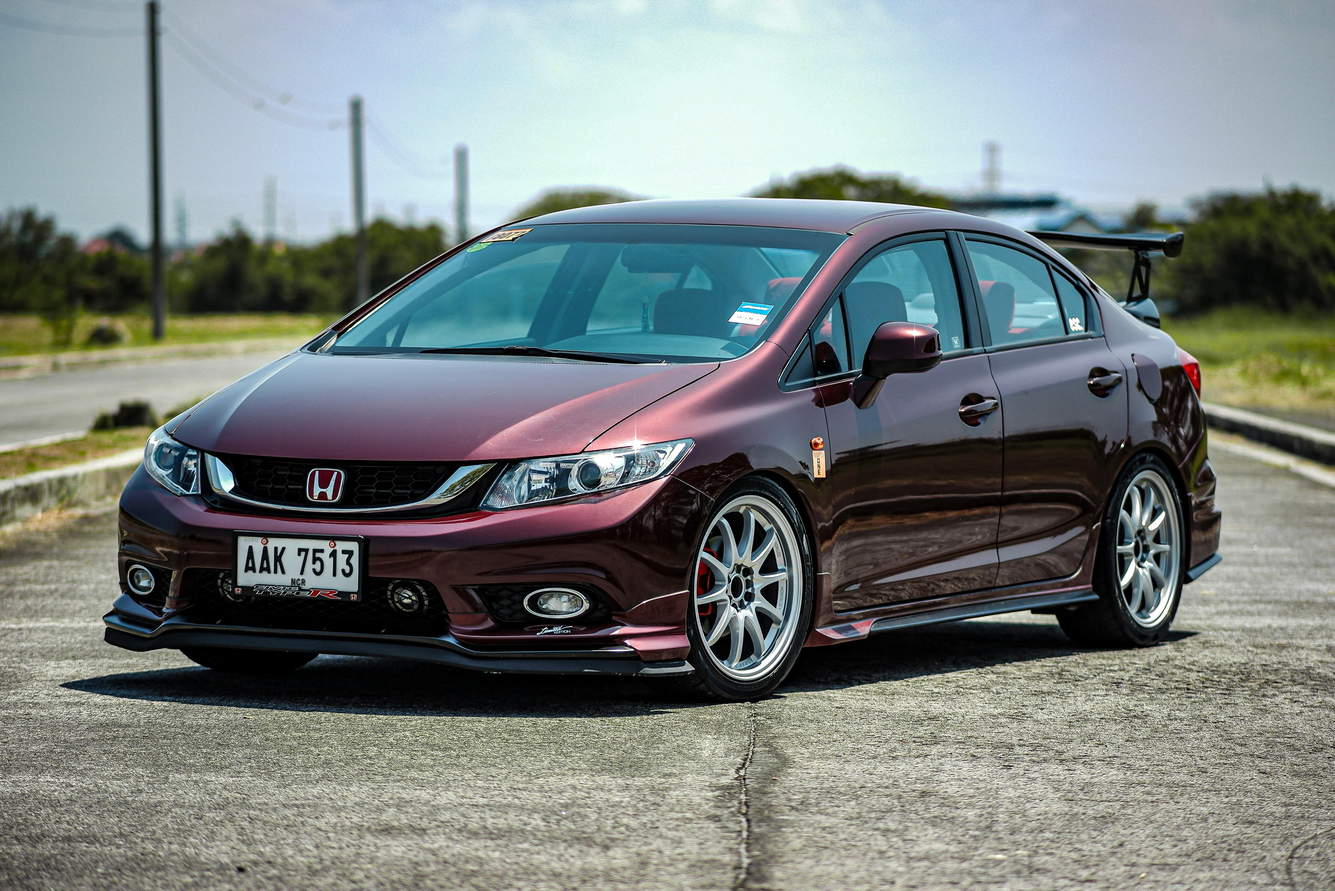
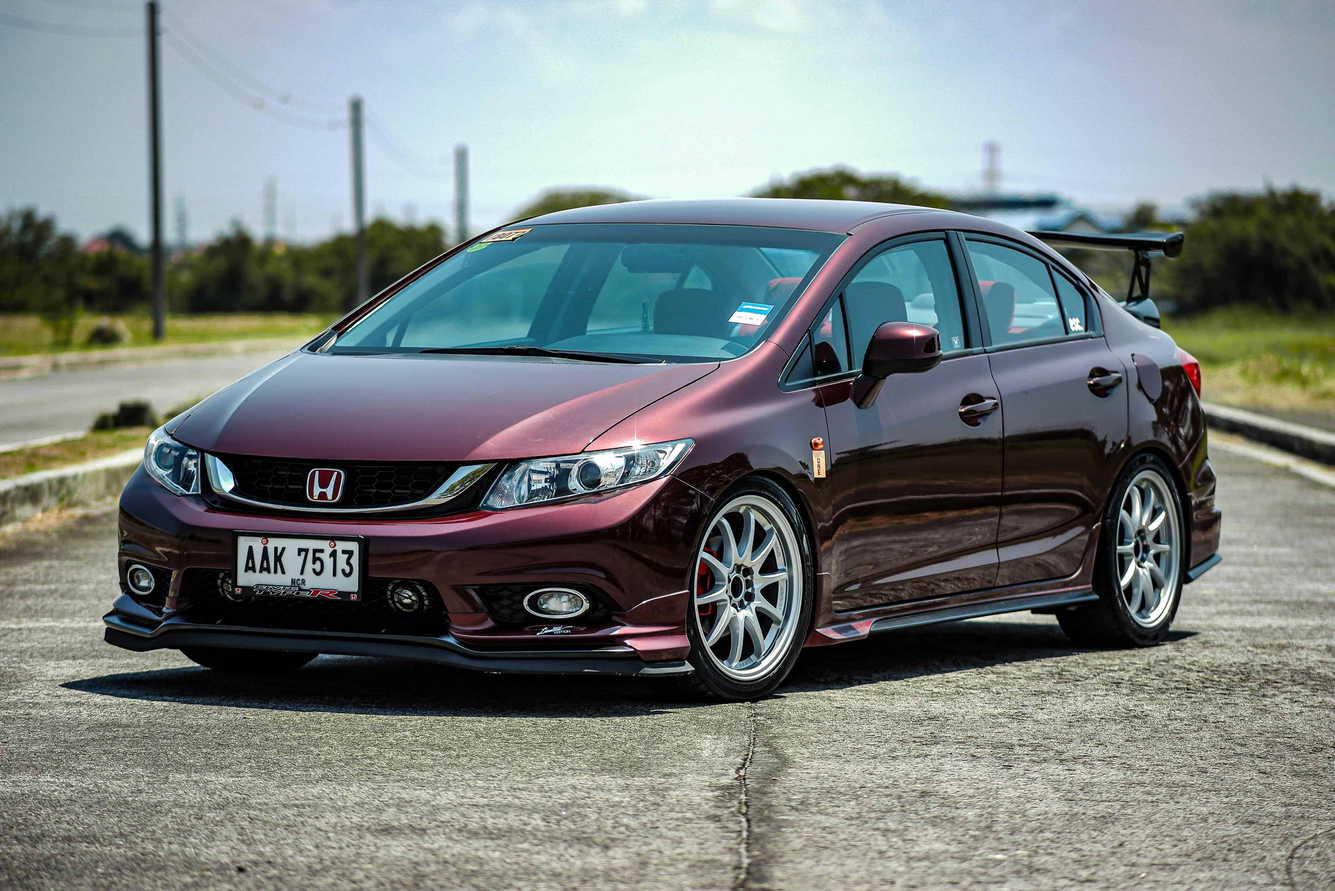
optimised images

diff --git a/templates/base.html b/templates/base.html
@@ -1,6 +1,5 @@
 {% load static %}
-
-<!doctype html>
+<!DOCTYPE html>
 <html lang="en">
     <head>
 
